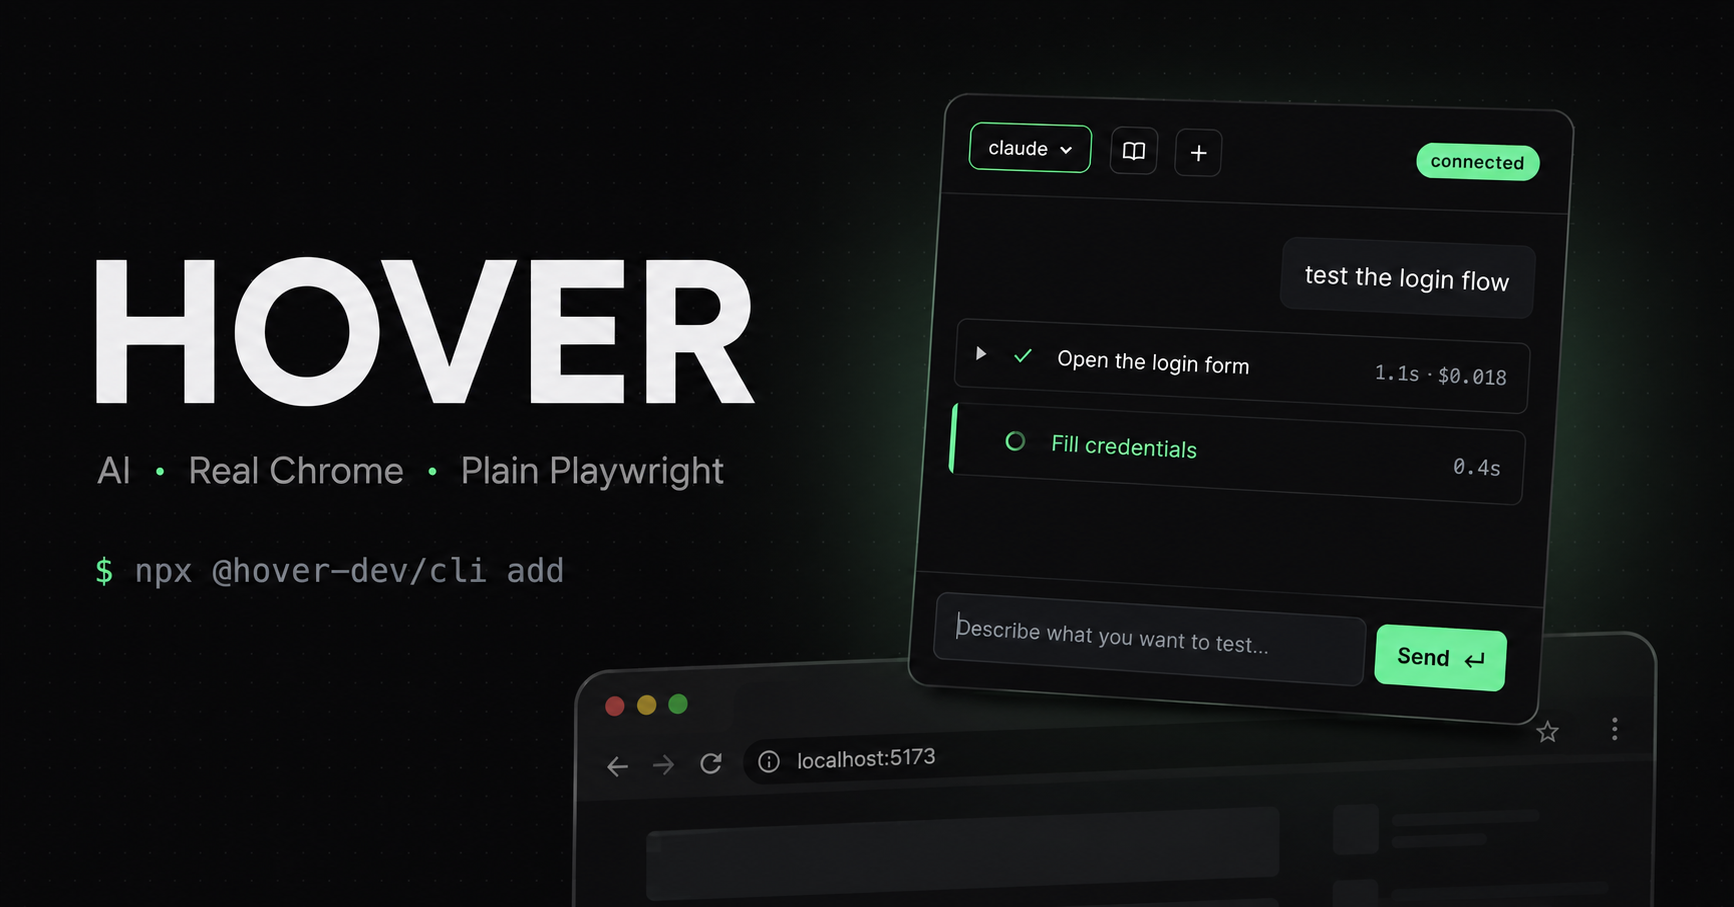
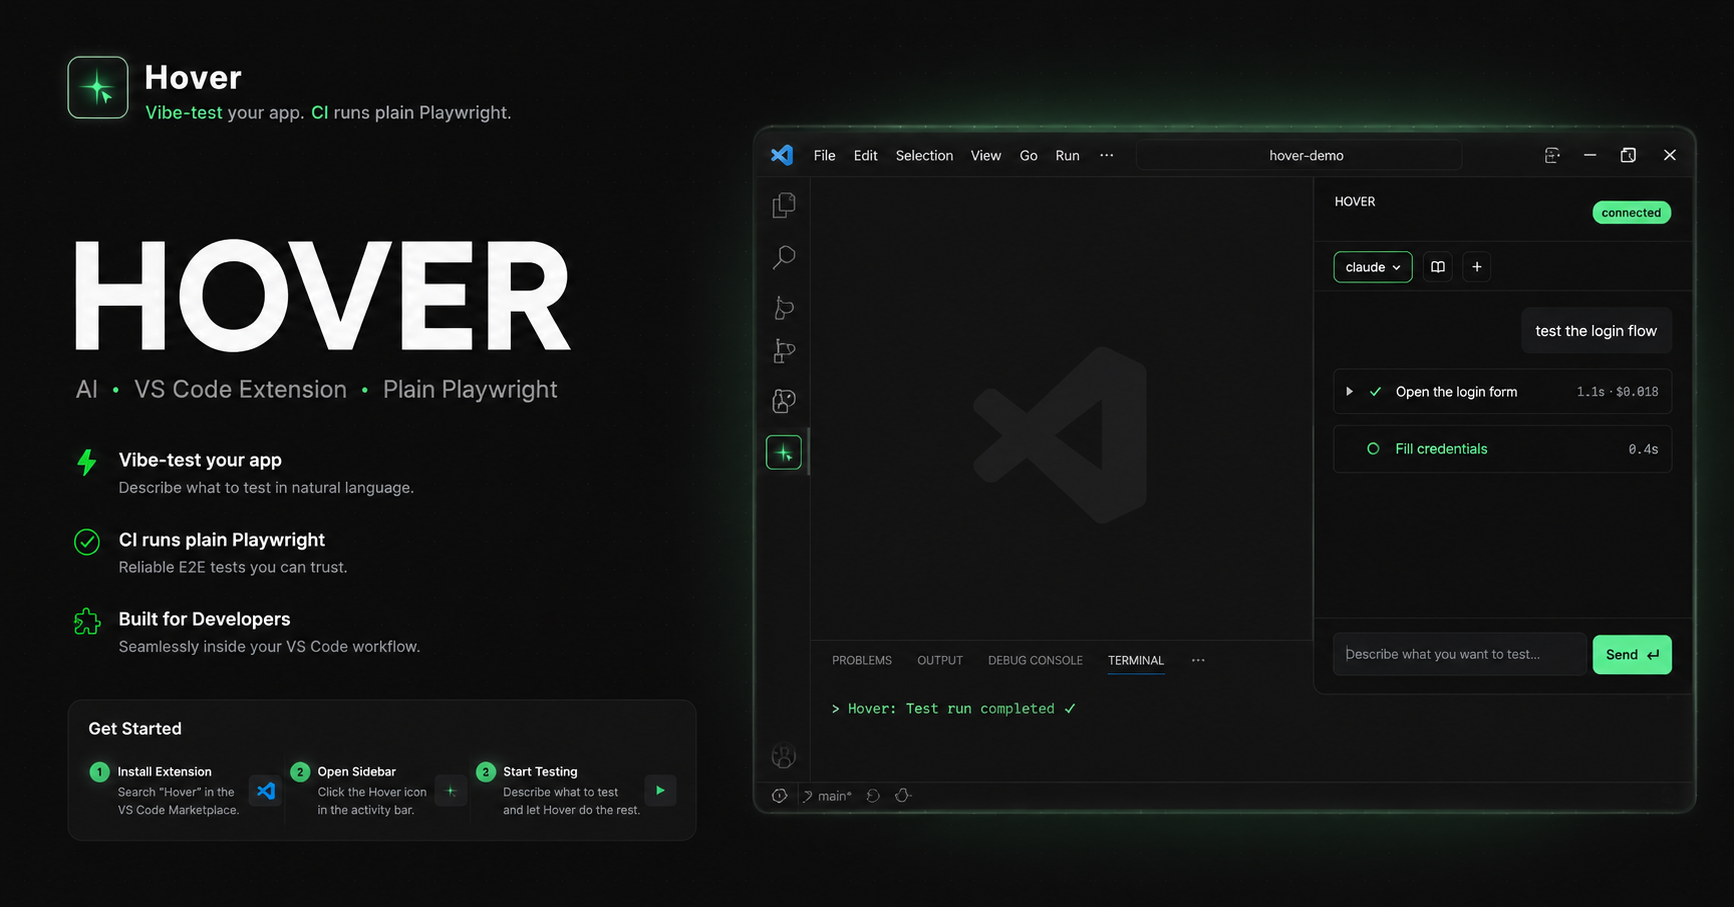
feat(site): add vibe-coding-vs-vibe-testing pillar + GEO schema

diff --git a/site/app/docs/[[...slug]]/page.tsx b/site/app/docs/[[...slug]]/page.tsx
@@ -69,8 +69,40 @@ export default async function DocPage(
   const href = hrefFor(slug);
   const { prev, next } = neighbours(href);
 
+  // BreadcrumbList JSON-LD — helps search + AI engines place the page in the
+  // docs hierarchy. Home > Docs > section(s) > page.
+  const crumbs = [
+    { name: 'Home', url: 'https://gethover.dev/' },
+    { name: 'Docs', url: 'https://gethover.dev/docs/' },
+  ];
+  let acc = '/docs';
+  slug.forEach((seg, i) => {
+    acc += `/${seg}`;
+    const leaf = i === slug.length - 1;
+    crumbs.push({
+      name: leaf
+        ? docTitle(source)
+        : seg.replace(/-/g, ' ').replace(/^\w/, (c) => c.toUpperCase()),
+      url: `https://gethover.dev${acc}/`,
+    });
+  });
+  const breadcrumbLd = {
+    '@context': 'https://schema.org',
+    '@type': 'BreadcrumbList',
+    itemListElement: crumbs.map((c, i) => ({
+      '@type': 'ListItem',
+      position: i + 1,
+      name: c.name,
+      item: c.url,
+    })),
+  };
+
   return (
     <article>
+      <script
+        type="application/ld+json"
+        dangerouslySetInnerHTML={{ __html: JSON.stringify(breadcrumbLd) }}
+      />
       <div className="prose-docs">
         <MDXRemote
           source={source}

diff --git a/site/app/layout.tsx b/site/app/layout.tsx
@@ -80,9 +80,18 @@ const JSON_LD = {
   '@context': 'https://schema.org',
   '@graph': [
     {
+      '@type': 'Organization',
+      '@id': 'https://gethover.dev/#org',
+      name: 'Hyperyond',
+      url: 'https://gethover.dev',
+      logo: 'https://gethover.dev/favicon.svg',
+      sameAs: ['https://github.com/Hyperyond/Hover'],
+    },
+    {
       '@type': 'SoftwareApplication',
       name: 'Hover',
       alternateName: 'Hover — AI Vibe Testing',
+      publisher: { '@id': 'https://gethover.dev/#org' },
       applicationCategory: 'DeveloperApplication',
       operatingSystem: 'macOS, Windows, Linux',
       description: